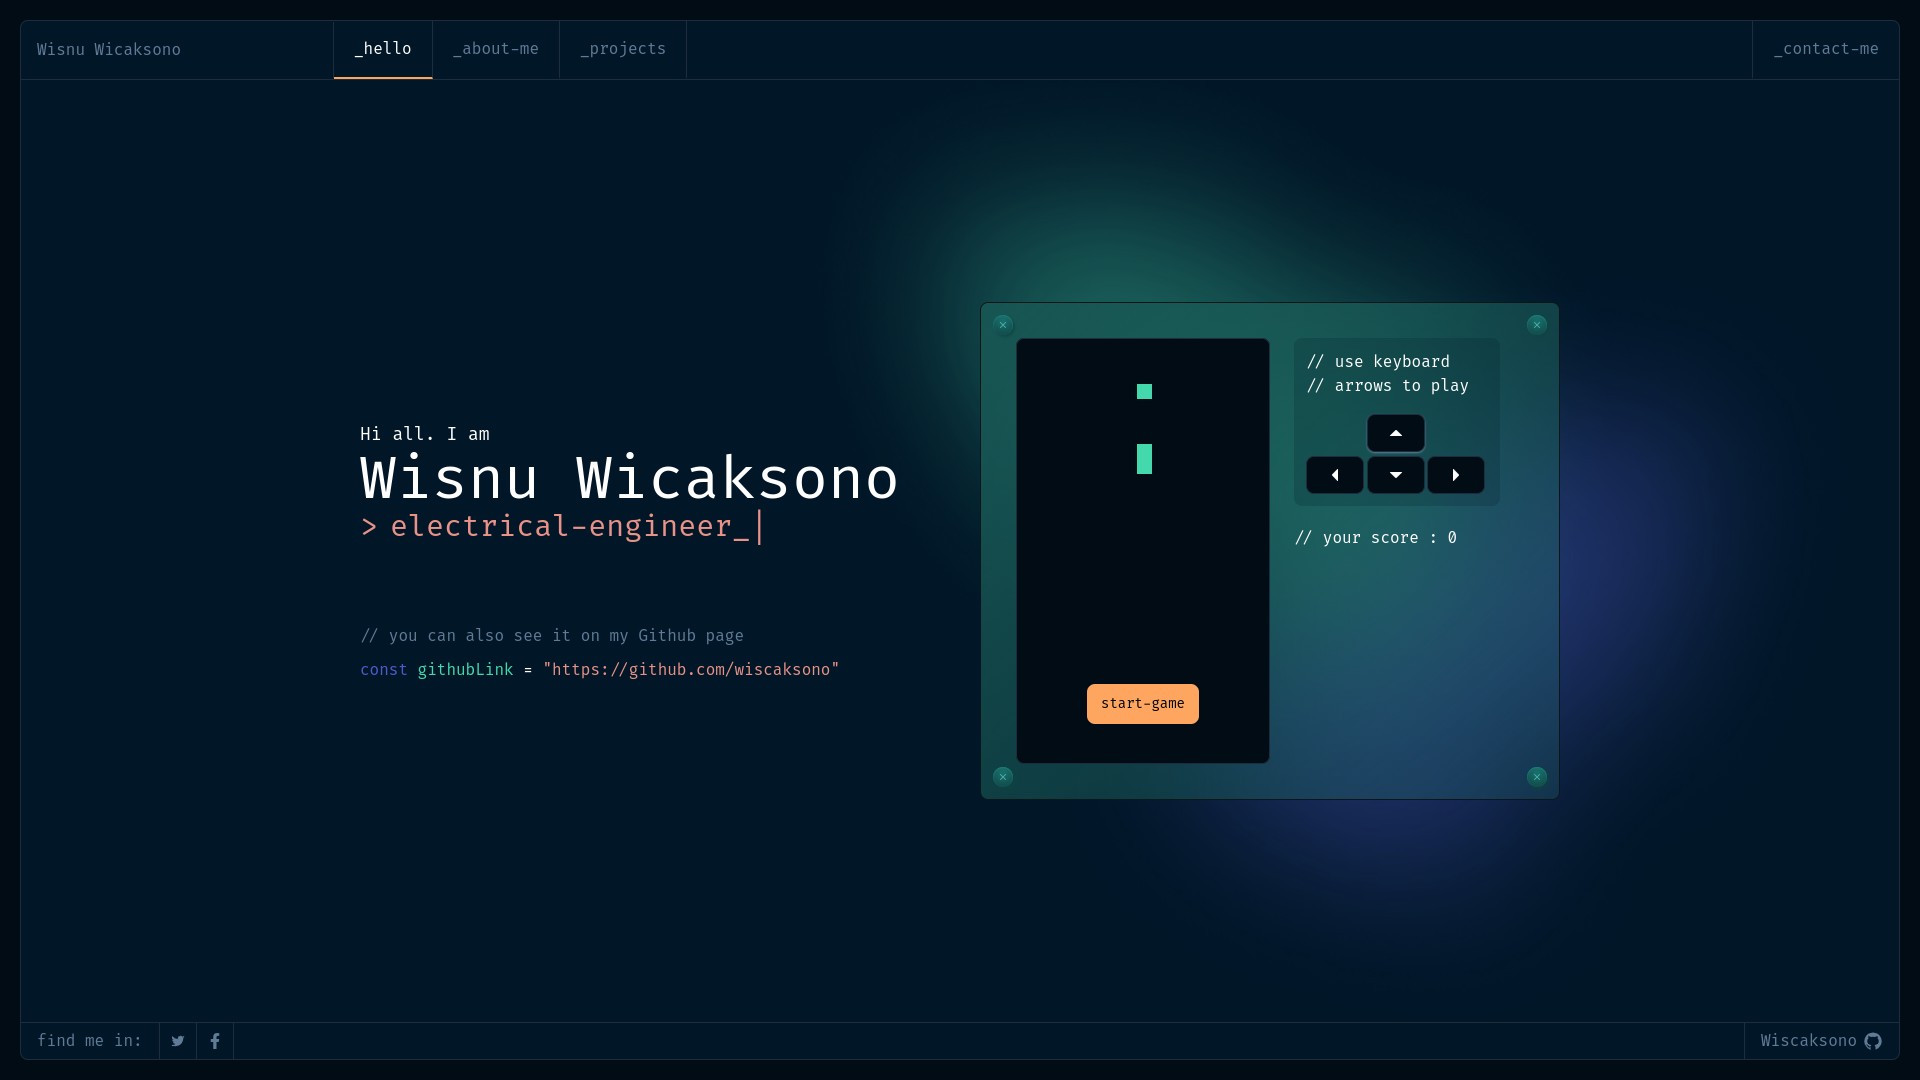
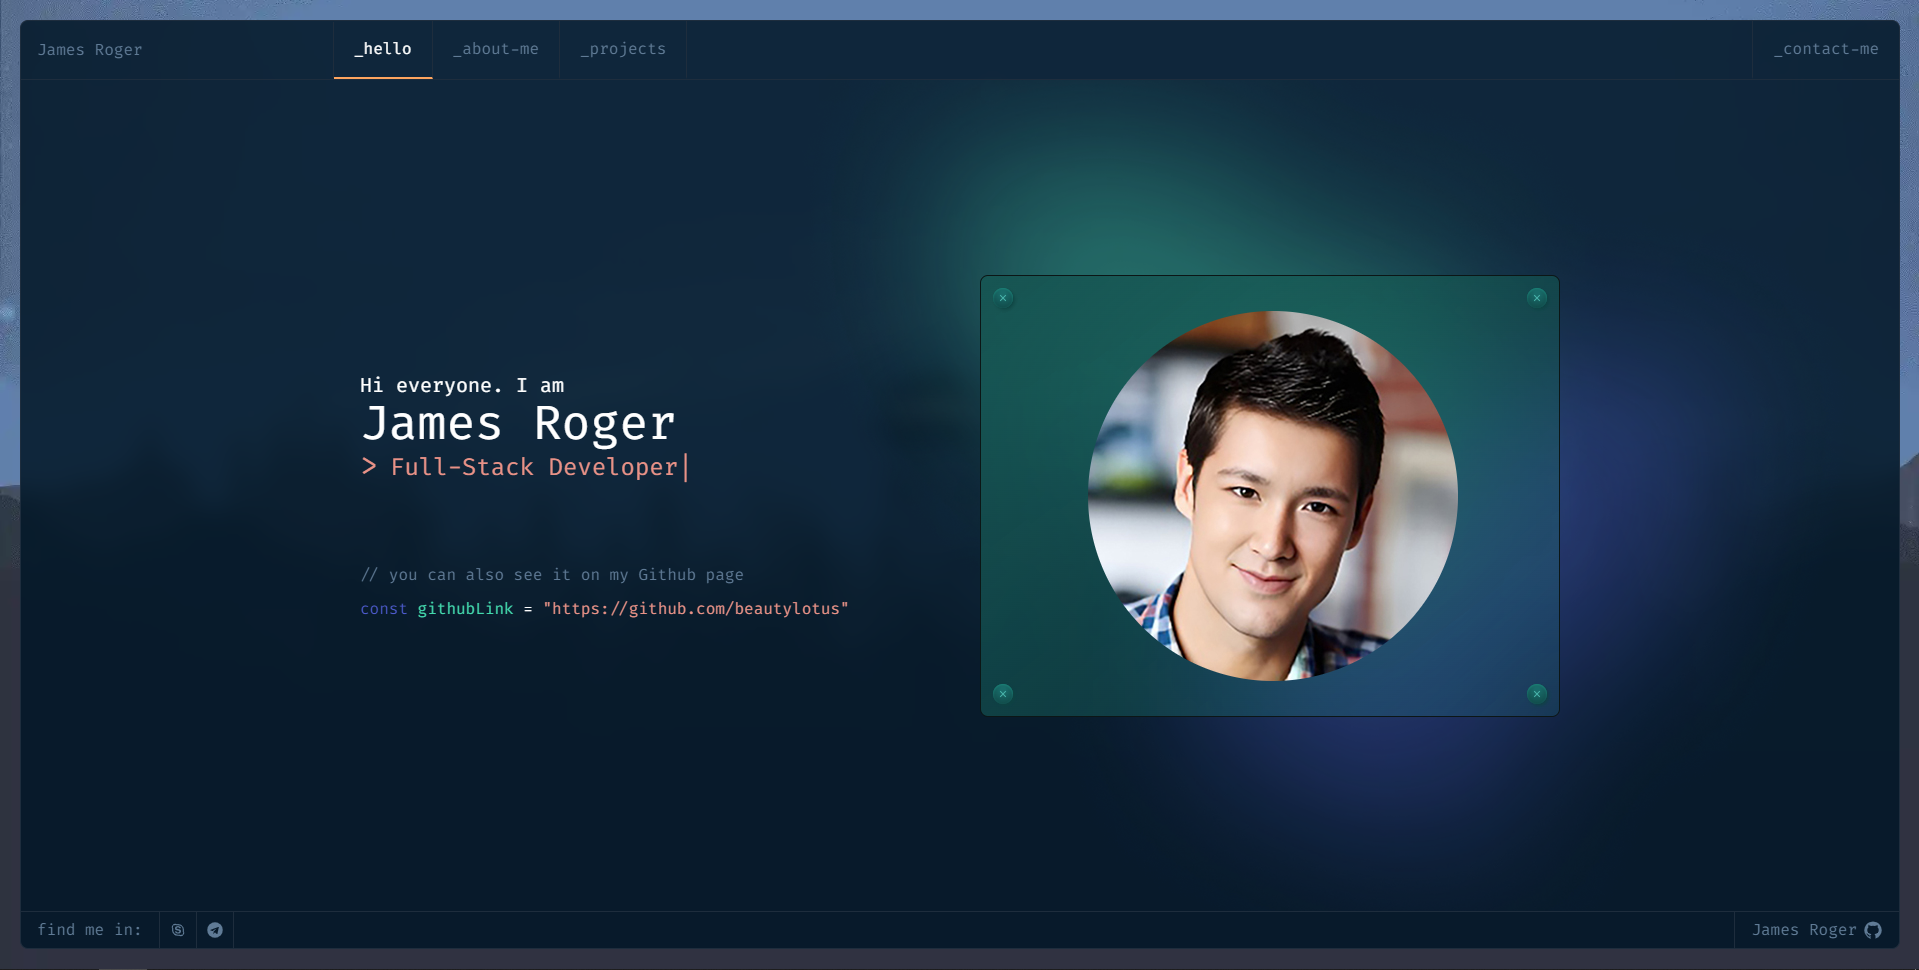
update 1

diff --git a/public/index.html b/public/index.html
@@ -1,24 +1,34 @@
 <!DOCTYPE html>
 <html lang="en">
   <head>
-    
-  <!-- HTML Meta Tags -->
-  <title>James Roger</title>
-  <meta name="description" content="James Roger Personal Website">
 
-  <!-- Facebook Meta Tags -->
-  <meta property="og:url" content="https://jamesroger.me/">
-  <meta property="og:type" content="website">
-  <meta property="og:title" content="James Roger">
-  <meta property="og:description" content="James Roger Personal Website">
+    <!-- HTML Meta Tags -->
+    <title>James Roger</title>
+    <meta name="description" content="James Roger Personal Website">
 
-  <!-- Twitter Meta Tags -->
-  <meta name="twitter:card" content="summary_large_image">
-  <meta property="twitter:domain" content="James Roger.me">
-  <meta name="twitter:title" content="James Roger">
-  <meta name="twitter:description" content="James Roger Personal Website">
+    <!-- Facebook Meta Tags -->
+    <meta property="og:url" content="https://jamesroger.me/">
+    <meta property="og:type" content="website">
+    <meta property="og:title" content="James Roger">
+    <meta property="og:description" content="James Roger Personal Website">
+
+    <!-- Twitter Meta Tags -->
+    <meta name="twitter:card" content="summary_large_image">
+    <meta property="twitter:domain" content="James Roger.me">
+    <meta name="twitter:title" content="James Roger">
+    <meta name="twitter:description" content="James Roger Personal Website">
+
   </head>
   <body>
     <div id="root"></div>
   </body>
+
+  <script type="text/javascript"
+    src="https://cdn.jsdelivr.net/npm/@emailjs/browser@3/dist/email.min.js">
+    </script>
+  <script type="text/javascript">
+      (function(){
+        emailjs.init("qXWjudIg1WdJlWMV8");
+    })();
+  </script>
 </html>

diff --git a/src/pages/ContactMe.jsx b/src/pages/ContactMe.jsx
@@ -36,23 +36,25 @@ export default function ContactMe() {
     message: "",
     email: "",
   });
-
-  const sendEmail = (e) => {
+  const form = {
+    to_name: 'James Roger',
+    from_name: formData.form_name,
+    message: formData.message,
+    email: formData.email,
+  }
+  const sendEmail = async (e) => {
     e.preventDefault();
     setLoader(true);
 
-    emailjs
+    await emailjs
       .send(
-        process.env.REACT_APP_EMAIL_SERVICE,
-        process.env.REACT_APP_EMAIL_TEMPLATE,
-        {
-          from_name: formData.form_name,
-          message: formData.message,
-          email: formData.email,
-        },
-        process.env.REACT_APP_EMAIL_JS_USER_ID
+        "service_4id4y4f",
+        "template_fyslu1j",
+        form,
+        "qXWjudIg1WdJlWMV8"
       )
-      .then(() => {
+      .then((result) => {
+        console.log(result.text);
         setLoader(false);
         setShowNotif(true);
         setTimeout(() => setShowNotif(false), 3000);

diff --git a/src/pages/Home.jsx b/src/pages/Home.jsx
@@ -63,7 +63,7 @@ export default function Home() {
                 }}
                 onInit={(typewriter) => {
                   typewriter
-                    .typeString("Full-Stack Developer")
+                    .typeString("Senior Software Engineer")
                     .pauseFor(1000)
                     .deleteAll()
                     .typeString("I love to learn new technology")

diff --git a/README.md b/README.md
@@ -1,4 +1,4 @@
-# Wisnu's Homepage
+# James Roger's Homepage
 
 [https://www.wiscaksono.me/](https://www.wiscaksono.me/)
 
